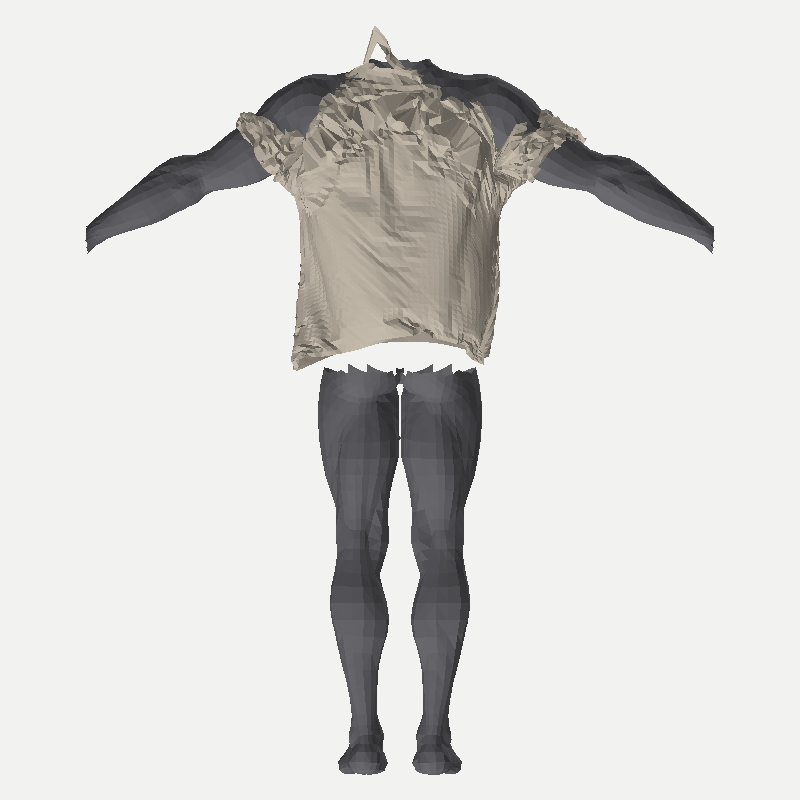
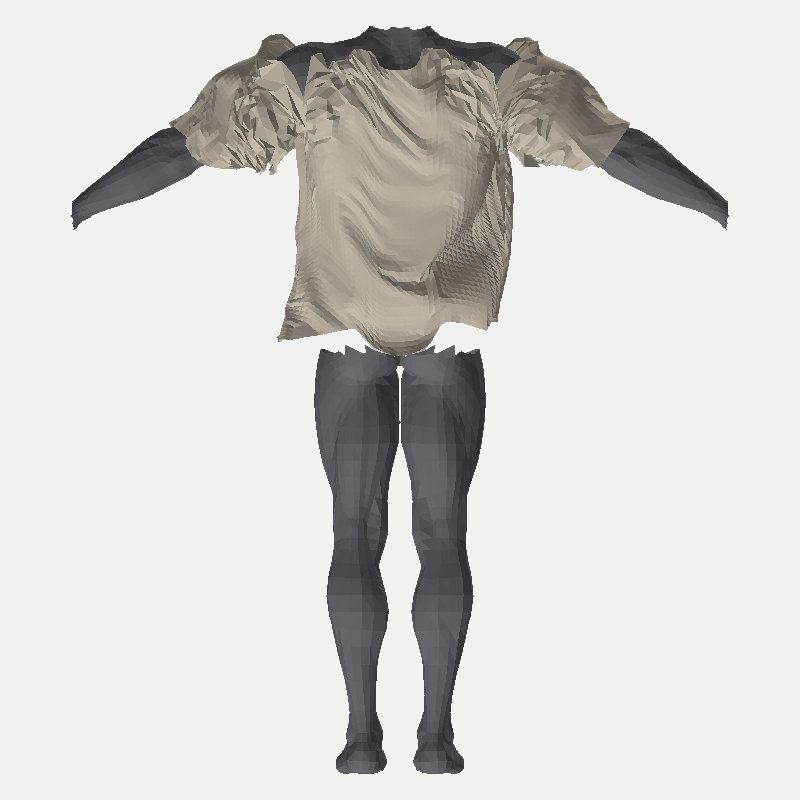
cloth sim: shell mode (default) per the independent review — seams closed at placement, one gravity settle
- torso_bender: front/back cylinders whose half turn is the panel width (side seams meet by construction)
- sleeve_bender: full-turn tube below the underarm (underarm seam closes by construction)
- rollover: shoulder columns roll a quarter turn over the shoulder, fading to none at the neck
- smooth funnel (continuous cap parameter), zip_presew (pairs to midpoints, smooth falloff in pattern space), weld
- smooth_push: out along the nearest skin triangle's normal (inside points went deeper before), smoothed field
- settle: gravity -Y, self-collision, collision quality 4, thickness 9 mm, max velocity 5, yoke pinned (0.25)
- neckband left out for now; SIM_MODE=sew keeps the old sewing-springs path

Result: 0.16-0.56 % of vertices inside the body (was 3-5 %), the shirt hangs with vertical folds; shoulders still lumpy.

Claude-Session: https://claude.ai/code/session_01T1FoqNFrnpWafKQH3B1Vx3

diff --git a/tools/assets/cloth/sim.py b/tools/assets/cloth/sim.py
@@ -47,20 +47,23 @@ from place import sub, dot, cross, nrm, build_grid, bender, band_bender, Body, \
     edge_pts, sample_polyline, COLORS
 
 # ── tunables (metres, seconds; the reviewer's Marvelous/CLO recipe) ────────────────────────────
-STEP_SIM = float(os.environ.get('SIM_STEP', '0.9'))     # cm, warp grid of the high-poly cloth
+STEP_SIM = float(os.environ.get('SIM_STEP', '1.2'))     # cm, warp grid of the high-poly cloth
 MIN_CLEAR, PUSH_TO = 0.020, 0.032                       # push-out band, same as place.py
 FPS = 24
 FRAMES_SEW = int(os.environ.get('SIM_SEW', '55'))       # phase 1: seams close by sewing springs
-FRAMES_SETTLE = int(os.environ.get('SIM_SETTLE', '60')) # phase 2: gravity + self-collision settle
-QUALITY = int(os.environ.get('SIM_QUALITY', '5'))       # CPU-bound default; SIM_QUALITY=8 on [gpu]
+FRAMES_SETTLE = int(os.environ.get('SIM_SETTLE', '50')) # phase 2: gravity + self-collision settle
+QUALITY = int(os.environ.get('SIM_QUALITY', '6'))       # CPU-bound default; SIM_QUALITY=8 on [gpu]
 FABRIC = dict(area_mass=0.15, tension=15.0, compression=15.0, shear=5.0, bending=0.5,
-              self_dist=0.003, coll_thick=0.005, friction=5.0,
+              self_dist=0.003, coll_thick=0.009, friction=5.0,
               sew_force=float(os.environ.get('SIM_SEW_FORCE', '25')))   # reviewer: 10–30
 SHRINK_SEW = float(os.environ.get('SIM_SHRINK', '0.02'))  # reviewer: 0.05–0.1
 SLEEVE_SLIDE = float(os.environ.get('SIM_SLIDE', '0.85'))   # share of the cap→armhole distance closed by placement
 FUNNEL_CM = 14.0                                          # the funnel fades out this far down the sleeve (pattern cm)
+PIN_DROP = float(os.environ.get('SIM_PIN_DROP', '0.05'))   # m below the nape: the pinned yoke
+PIN_STIFF = float(os.environ.get('SIM_PIN_STIFF', '0.25'))
+SHELL = os.environ.get('SIM_MODE', 'shell') == 'shell'   # sewn at placement (default) / 'sew' = springs
 WELD_GAP = 0.003                                          # weld seam pairs closer than 3 mm
-REST_VER = 'roll3'   # bump when the placement changes
+REST_VER = 'shell4'   # bump when the placement changes
 COTTON = (0.78, 0.74, 0.68)
 
 
@@ -85,14 +88,80 @@ def pushclear(V3, skin, iters=12):
             break
 
 
-def rollover(f, poly, sgn, z_mid):
+def nearest_ti(skin, p):
+    """Body.nearest + the triangle index (for its normal)"""
+    gx = int(p[0] / skin.cell); gy = int(p[1] / skin.cell); gz = int(p[2] / skin.cell)
+    best, bcp, bti = 1e18, None, -1
+    for r in range(1, 4):
+        for dx in range(-r, r + 1):
+            for dy in range(-r, r + 1):
+                for dz in range(-r, r + 1):
+                    if max(abs(dx), abs(dy), abs(dz)) != r: continue
+                    for ti in skin.grid.get((gx + dx, gy + dy, gz + dz), ()):
+                        d2, cp = skin.d2tri(p, ti)
+                        if d2 < best: best, bcp, bti = d2, cp, ti
+        if best < (r * skin.cell) ** 2: break
+    return best, bcp, bti
+
+
+def smooth_push(V, F, skin, rounds=5, smooth=8, clear=0.012, push_to=0.018):
+    """clear the cloth off the skin WITHOUT shredding it: (1) the push direction is the nearest skin triangle's
+    outward normal, so a vertex that is already INSIDE goes out (pushing along p - closest drove it deeper);
+    (2) the push is a displacement FIELD smoothed over the cloth mesh before it is applied, so the surface bulges
+    smoothly over a shoulder instead of single vertices jumping out as spikes."""
+    P, T = skin.P, skin.tris
+    TN = []
+    for a, b, c in T:
+        n = cross(sub(P[b], P[a]), sub(P[c], P[a])); l = math.sqrt(dot(n, n)) or 1e-12
+        TN.append((n[0] / l, n[1] / l, n[2] / l))
+    # orientation: most normals must point away from the body's own vertical axis
+    cx = sum(p[0] for p in P) / len(P); cz = sum(p[2] for p in P) / len(P)
+    vote = sum(dot(TN[i], (P[t[0]][0] - cx, 0, P[t[0]][2] - cz)) for i, t in enumerate(T[::7]) for i in [i * 7])
+    flip = -1.0 if vote < 0 else 1.0
+    nb = [set() for _ in V]
+    for a, b, c in F:
+        nb[a].update((b, c)); nb[b].update((a, c)); nb[c].update((a, b))
+    V = [list(p) for p in V]
+    for _ in range(rounds):
+        need = {}
+        for i, p in enumerate(V):
+            d2, cp, ti = nearest_ti(skin, p)
+            if cp is None or d2 > (clear * 1.6) ** 2: continue
+            n = tuple(flip * c for c in TN[ti]); sd = dot(sub(p, cp), n)
+            if sd < clear:
+                need[i] = tuple(n[k] * (push_to - sd) for k in range(3))
+        if not need: break
+        D = {i: list(d) for i, d in need.items()}
+        for _ in range(smooth):                               # spread the field into the neighbourhood
+            N = {}
+            for i in set(D) | {j for i in D for j in nb[i]}:
+                acc = [0.0, 0.0, 0.0]; cnt = 0
+                for j in nb[i]:
+                    if j in D: acc = [acc[k] + D[j][k] for k in range(3)]; cnt += 1
+                if not cnt: continue
+                avg = [acc[k] / (len(nb[i]) or 1) for k in range(3)]
+                own = D.get(i, [0.0, 0.0, 0.0])
+                if i in need:                                 # a colliding vertex keeps at least its own push
+                    own = list(need[i])
+                    if dot(avg, avg) > dot(own, own): own = avg
+                    N[i] = own
+                else:
+                    N[i] = [(own[k] + avg[k]) * 0.5 for k in range(3)]
+            D = N
+        for i, d in D.items():
+            V[i] = [V[i][k] + d[k] for k in range(3)]
+        print(f'    отжим от кожи: {len(need)} вершин, поле на {len(D)}')
+    return [tuple(p) for p in V]
+
+
+def rollover(f, poly, sgn, z_mid, neck_w):
     """the torso cylinder leaves the front / back shoulder edges hanging in front of / behind the shoulders, and the
-    sewing springs then pull them straight through the shoulder into the collider (the seams never close and the shirt
-    slides down). Roll the top of each panel over the shoulder instead: along every pattern column the cloth below the
-    top edge follows a quarter circle from the panel's own plane up to the shoulder mid-plane z_mid, arc length kept,
-    so the front and back shoulder edges meet on top of the shoulder before any physics runs."""
+    seams then cut straight through the shoulder. Roll the top of each panel over the shoulder: along every pattern
+    column the cloth below the top edge follows an arc from the panel's own plane toward the shoulder mid-plane z_mid,
+    arc length kept. Shoulder columns (|u| >= neck_w) roll a full quarter turn so front and back shoulder edges meet on
+    top of the shoulder; toward the centre the roll fades to none, so the neckline stays in front of / behind the neck."""
     n = len(poly)
-    def top(u):                                       # the pattern y (down from the nape) of the top edge at column u
+    def top(u):
         ys = []
         for i in range(n):
             (x1, y1), (x2, y2) = poly[i], poly[(i + 1) % n]
@@ -102,21 +171,95 @@ def rollover(f, poly, sgn, z_mid):
     cache = {}
     def g(u, v):
         x, y, z = f(u, v)
-        t = cache.get(u)
-        if t is None:
-            t = cache[u] = top(u)
-        r = abs(z - z_mid)
-        if r < 0.01:
+        if u not in cache:
+            t = top(u); r = abs(f(u, t)[2] - z_mid)
+            k = min(1.0, abs(u) / neck_w); rho = k * k * (3 - 2 * k)
+            cache[u] = (t, r, rho, f(u, t)[1])
+        t, r, rho, y_edge = cache[u]
+        if r < 0.01 or rho < 1e-3:
             return (x, y, z)
-        y_edge = f(u, t)[1]
-        d = (v - t) / 100                             # metres below the top edge along the panel
-        L = math.pi / 2 * r
-        yc = y_edge - r
+        L = rho * math.pi / 2 * r
+        yc = y_edge - r * math.sin(rho * math.pi / 2)
+        d = (v - t) / 100
         if d < L:
-            ph = d / r
-            return (x, yc + r * math.cos(ph), z_mid + sgn * r * math.sin(ph))
+            ph = (L - d) / r
+            return (x, yc + r * math.sin(ph), z_mid + sgn * r * math.cos(ph))
         return (x, yc - (d - L), z)
     return g
+
+
+def torso_bender(name, poly, A):
+    """front / back around a cylinder whose half turn is EXACTLY the panel width (the step-1 cylinder used the chest
+    girth + a gap, so the side seams started ~8 cm apart): the side edges of front and back land on the same line"""
+    xs = [p[0] for p in poly]; cx = (min(xs) + max(xs)) / 2; R = (max(xs) - min(xs)) / 100 / math.pi
+    zc, yn = A['chest']['zc'], A['nape_y']; sg = 1 if name == 'front' else -1
+    def f(u, v):
+        th = (u - cx) / 100 / R
+        return (R * math.sin(th), yn - v / 100, zc + sg * R * math.cos(th))
+    return f
+
+
+def sleeve_bender(name, part, A):
+    """the sleeve as a closed tube around the arm: below the underarm every row wraps a full turn (its width between
+    the two underarm-seam edges = the circumference), so the underarm seam closes by construction; the cap rows keep
+    the underarm row's radius and are pulled to the armhole by the funnel"""
+    s = 1 if name == 'sleeveP' else -1
+    ar = A['arms']['L' if s > 0 else 'R']
+    b0 = (ar['bicep_cx'], ar['bicep_y'], ar['bicep_cz']); e = (ar['elbow_cx'], ar['elbow_y'], ar['elbow_cz'])
+    d = nrm(sub(e, b0))
+    tip = A['sleeve_tip'][s]; Y = (0, 1, 0)
+    e_top = nrm(tuple(Y[k] - dot(Y, d) * d[k] for k in range(3))); e_side = nrm(cross(d, e_top))
+    sP, sM = edge_pts(part, 'seamP'), edge_pts(part, 'seamM')
+    v_ua = max(min(p[1] for p in sP), min(p[1] for p in sM))
+    def xat(line, v):
+        for (x1, y1), (x2, y2) in zip(line, line[1:]):
+            if (y1 <= v <= y2) or (y2 <= v <= y1):
+                return x1 if y1 == y2 else x1 + (x2 - x1) * (v - y1) / (y2 - y1)
+        return line[0][0] if abs(line[0][1] - v) < abs(line[-1][1] - v) else line[-1][0]
+    hcap = A['cap_h']
+    def f(u, v):
+        vv = max(v, v_ua)
+        a_, b_ = xat(sP, vv), xat(sM, vv); lo, hi = min(a_, b_), max(a_, b_); w = hi - lo
+        R = w / 100 / (2 * math.pi) + 0.004
+        th = math.pi * (u - (lo + hi) / 2) / (w / 2) if v >= v_ua else (u - (lo + hi) / 2) / 100 / R
+        s_al = (v + hcap) / 100
+        radial = tuple(e_top[k] * math.cos(th) + e_side[k] * math.sin(th) for k in range(3))
+        return tuple(tip[k] + d[k] * s_al + R * radial[k] for k in range(3))
+    return f
+
+
+def zip_presew(V, seamG, part_of, V2g, fall_cm=7.0):
+    """close every seam geometrically before any physics: each pair moves to its midpoint, and the move spreads into
+    its own panel with a smooth falloff over fall_cm in PATTERN space (no Laplacian: it left slivers). Then the pairs
+    coincide and are welded — the cloth starts as one closed shell whose rest shape is the panels' own shape."""
+    D = {}
+    for _, pr in seamG:
+        for a, b in pr:
+            m = tuple((V[a][k] + V[b][k]) / 2 for k in range(3))
+            for i in (a, b):
+                d = sub(m, V[i])
+                if i in D: D[i] = tuple((D[i][k] + d[k]) / 2 for k in range(3))
+                else: D[i] = d
+    by_part = defaultdict(list)
+    for i in D: by_part[part_of[i]].append(i)
+    out = [list(p) for p in V]
+    for i in range(len(V)):
+        src = by_part.get(part_of[i])
+        if not src: continue
+        if i in D:
+            out[i] = [V[i][k] + D[i][k] for k in range(3)]; continue
+        wsum, acc, dmin = 0.0, [0.0, 0.0, 0.0], 1e9
+        u, v = V2g[i]
+        for j in src:
+            dd = math.hypot(V2g[j][0] - u, V2g[j][1] - v)
+            if dd > fall_cm: continue
+            dmin = min(dmin, dd); w = 1.0 / (dd * dd + 0.25)
+            wsum += w
+            for k in range(3): acc[k] += w * D[j][k]
+        if not wsum: continue
+        t = 1 - dmin / fall_cm; t = t * t * (3 - 2 * t)
+        out[i] = [V[i][k] + acc[k] / wsum * t for k in range(3)]
+    return out
 
 
 def build_parts(garment, pat, skin, bodyP, bodyT):
@@ -133,11 +276,14 @@ def build_parts(garment, pat, skin, bodyP, bodyT):
         zs = [p[2] for p in bodyP if A['nape_y'] - 0.09 < p[1] < A['nape_y'] - 0.01 and 0.07 < abs(p[0]) < 0.17]
         z_mid = sum(zs) / len(zs)
         for name in pat['parts']:
-            f = bender(name, A)
-            if f is None:                                   # the collar strip, along the neckline
-                f = band_bender(A, pat, bender('front', A), bender('back', A))
-            elif name in ('front', 'back'):
-                f = rollover(f, [tuple(p) for p in pat['parts'][name]['pts']], 1 if name == 'front' else -1, z_mid)
+            poly = [tuple(p) for p in pat['parts'][name]['pts']]
+            if name in ('front', 'back'):
+                nk = edge_pts(pat['parts'][name], 'neck'); neck_w = max(abs(q[0]) for q in nk)
+                f = rollover(torso_bender(name, poly, A), poly, 1 if name == 'front' else -1, z_mid, neck_w)
+            elif name in ('sleeveP', 'sleeveM'):
+                f = sleeve_bender(name, pat['parts'][name], A)
+            else:
+                f = bender(name, A) or band_bender(A, pat, bender('front', A), bender('back', A))
             benders[name] = f
         # funnel each sleeve toward its armhole: the cap ring sat ~15 cm from the armhole loop, and the sewing springs then
         # dragged the shoulders apart and crumpled the caps. Every sleeve vertex moves by the cap→armhole offset of its
@@ -168,10 +314,21 @@ def build_parts(garment, pat, skin, bodyP, bodyT):
             D = [sub(benders[hn](*hq), benders[sl](*cq)) for (_, cq), (hn, hq) in zip(cap, hole)]
             f0 = benders[sl]
             def funnel(u, v, f0=f0, caps2=caps2, D=D):
-                k = min(range(len(caps2)), key=lambda m: (caps2[m][0] - u) ** 2 + (caps2[m][1] - v) ** 2)
-                dp = math.dist(caps2[k], (u, v)); w = max(0.0, 1 - dp / FUNNEL_CM) ** 2 * SLEEVE_SLIDE
+                # closest point on the cap polyline (continuous), the cap→armhole offset interpolated along it:
+                # the nearest-sample version moved the cloth in steps and creased the rest shape at the armhole
+                best = (1e18, 0, 0.0)
+                for m in range(len(caps2) - 1):
+                    (x1, y1), (x2, y2) = caps2[m], caps2[m + 1]
+                    dx, dy = x2 - x1, y2 - y1; L2 = dx * dx + dy * dy or 1e-9
+                    t = max(0.0, min(1.0, ((u - x1) * dx + (v - y1) * dy) / L2))
+                    d2 = (x1 + dx * t - u) ** 2 + (y1 + dy * t - v) ** 2
+                    if d2 < best[0]: best = (d2, m, t)
+                d2, m, t = best
+                w = max(0.0, 1 - math.sqrt(d2) / FUNNEL_CM) ** 2 * SLEEVE_SLIDE
+                w = w * w * (3 - 2 * w) if w < 1 else w
+                Dk = tuple(D[m][i] + (D[m + 1][i] - D[m][i]) * t for i in range(3))
                 p0 = f0(u, v)
-                return tuple(p0[i] + D[k][i] * w for i in range(3))
+                return tuple(p0[i] + Dk[i] * w for i in range(3))
             benders[sl] = funnel
             print(f'    {sl}: окат подтянут к пройме (средний зазор был {sum(math.sqrt(dot(d, d)) for d in D) / len(D) * 100:.1f} см)')
     else:                                                    # pants: step-1 bender needs its measures
@@ -187,7 +344,7 @@ def build_parts(garment, pat, skin, bodyP, bodyT):
         V, F, idxmap, cols, nrows = build_grid(poly, STEP_SIM)
         f = benders[name]
         V3 = [f(u, v) for u, v in V]
-        pushclear(V3, skin, 30 if garment == 'pants' else 12)
+        if not SHELL: pushclear(V3, skin, 30 if garment == 'pants' else 12)   # the shell is cleared after zipping (smooth_push)
         parts[name] = dict(verts3=V3, V2=V, faces=F)
         print(f'    {name:9}: {len(V3)} вершин, {len(F)} граней')
     return parts
@@ -330,7 +487,8 @@ def cfg(st, cs, mass, sewing, shrink, self_coll, quality):
     S(st, ['use_sewing_springs'], bool(sewing))
     if sewing:
         S(st, ['sewing_force_max', 'sewing_spring_max', 'max_sewing_force'], FABRIC['sew_force'])
-    S(st, ['max_velocity'], 50.0)                       # clamp a diverging frame
+    S(st, ['max_velocity'], 5.0)                        # m/s — 50 clamped nothing
+    S(cs, ['collision_quality'], 4)
     S(cs, ['use_collision'], True)
     S(cs, ['distance_min'], FABRIC['self_dist'])
     S(cs, ['use_self_collision'], bool(self_coll))
@@ -344,6 +502,12 @@ def make_body_collider(sc, bodyP, bodyT):
     me = bpy.data.meshes.new('body')
     me.from_pydata([list(p) for p in bodyP], [], [list(t) for t in bodyT])
     me.validate(); me.update()
+    import bmesh                                          # close the cut neck / pelvis rings and the UV-seam splits
+    bm = bmesh.new(); bm.from_mesh(me)
+    bmesh.ops.remove_doubles(bm, verts=bm.verts, dist=1e-4)
+    if os.environ.get('SIM_FILL', '0') == '1':
+        bmesh.ops.holes_fill(bm, edges=bm.edges, sides=0)
+    bm.to_mesh(me); bm.free(); me.update()
     ob = bpy.data.objects.new('body', me)
     sc.collection.objects.link(ob)
     cm = ob.modifiers.new('Collision', 'COLLISION')
@@ -356,7 +520,7 @@ def make_body_collider(sc, bodyP, bodyT):
 
 
 def run_phase(tag, V, F, E_sew, bodyP, bodyT, mass, frames, gravity, sewing, shrink,
-              self_coll, quality, blend=None):
+              self_coll, quality, blend=None, pin=None):
     """one cloth bake in a fresh scene. blend=(path, WV, WF, loop_uv) saves the final .blend."""
     bpy.ops.wm.read_factory_settings(use_empty=True)
     sc = bpy.context.scene
@@ -374,6 +538,10 @@ def run_phase(tag, V, F, E_sew, bodyP, bodyT, mass, frames, gravity, sewing, shr
     md = cob.modifiers.new('Cloth', 'CLOTH')
     st, cs = md.settings, md.collision_settings
     log, miss = cfg(st, cs, mass, sewing, shrink, self_coll, quality)
+    if pin:                                   # {vertex: weight} — the yoke rides on the shoulders (a hanger, as in CLO)
+        vg = cob.vertex_groups.new(name='pin')
+        for i, w in pin.items(): vg.add([i], w, 'REPLACE')
+        st.vertex_group_mass = 'pin'; st.pin_stiffness = PIN_STIFF
     print(f'  [{tag}] гравитация {gravity}, кадров {frames}, quality {quality}, '
           f'рёбер-швов {len(E_sew)} (loose={nloose}), вершин {len(V)}')
     print(f'  [{tag}] ткань: ' + ', '.join(log) + (f'  (нет RNA: {sorted(set(miss))})' if miss else ''))
@@ -640,6 +808,9 @@ def main():
         return 0 if sew_ok else 1
     bodyP, bodyT = place.load_obj(objp)
     pat = json.load(open(patp))
+    if SHELL and garment == 'tee':        # the neckband strip is a separate ring that never sat on the neckline — later
+        pat['parts'] = {k: v for k, v in pat['parts'].items() if k != 'band'}
+        pat['seams'] = [sm for sm in pat['seams'] if all(sp[0] != 'band' for sp in sm['a'] + sm['b'])]
     cached = load_rest(garment)
     if cached:
         V0, F0, UV0, seamG, E = cached
@@ -648,7 +819,15 @@ def main():
         parts = build_parts(garment, pat, skin, bodyP, bodyT)
         seams = seam_pairs(pat, parts)
         V0, F0, UV0, seamG, E, off = join(parts, seams, sheet_uv(parts))
+        if SHELL:
+            part_of, V2g = [], []
+            for name, pt in parts.items():
+                part_of += [name] * len(pt['verts3']); V2g += pt['V2']
+            V0 = zip_presew(V0, seamG, part_of, V2g)
+            V0 = smooth_push(V0, F0, skin)
         save_rest(garment, V0, F0, UV0, seamG, E)
+    if os.environ.get('SIM_REST_ONLY'):
+        print('— только покой (SIM_REST_ONLY)'); return 0
     print('— швы до пошива (рёбра-пружины, зазоры как из раскладки):')
     for nm, pr in seamG:
         g = [math.dist(V0[a], V0[b]) for a, b in pr]
@@ -664,23 +843,36 @@ def main():
     bad = 0 if 20000 <= len(F0) <= 120000 else 1
     print(f'    {"✓" if not bad else "✗"} число треугольников')
 
-    # ── PHASE 1: sew (gravity 0, no self-collision, slight shrink) ──
-    Vs_A, t1 = run_phase('пошив', V0, F0, E, bodyP, bodyT, mass, FRAMES_SEW,
-                         gravity=(0, 0, 0), sewing=True, shrink=SHRINK_SEW,
-                         self_coll=False, quality=QUALITY)
-    seam_bad, mean_gap = check_seams(Vs_A, seamG)
-
-    # ── WELD after sewing ──
-    WV, faces_w, remap = weld(Vs_A, V0, F0, UV0, seamG)
-    WF = [wf for wf, f0 in faces_w]
-    luv = loop_uv(faces_w, UV0)
-
-    # ── PHASE 2: settle (gravity on, self-collision on) ──
     blendp = os.path.join(OUT, f'{garment}_high.blend')
-    Vs_B, t2 = run_phase('усадка', WV, WF, [], bodyP, bodyT, mass, FRAMES_SETTLE,
-                         gravity=(0, -9.81, 0), sewing=False, shrink=0.0,
-                         self_coll=True, quality=QUALITY,
-                         blend=(blendp, WV, WF, luv))
+    if SHELL:
+        # ── the shell is already sewn: weld the (now coincident) pairs, then ONE settle with gravity ──
+        WV, faces_w, remap = weld(V0, V0, F0, UV0, seamG)
+        WF = [wf for wf, f0 in faces_w]
+        luv = loop_uv(faces_w, UV0)
+        t1 = 0.0
+        pin = None
+        if garment == 'tee':                  # pin the yoke: everything above the shoulder line minus PIN_DROP, ramped
+            y0 = pat['anchors']['nape_y'] - PIN_DROP
+            pin = {i: min(1.0, (p[1] - y0) / 0.03) for i, p in enumerate(WV) if p[1] > y0}
+            print(f'    пин кокетки: {len(pin)} вершин выше y={y0:.3f}')
+        Vs_B, t2 = run_phase('усадка', WV, WF, [], bodyP, bodyT, mass, FRAMES_SETTLE,
+                             gravity=(0, -9.81, 0), sewing=False, shrink=0.0,
+                             self_coll=True, quality=QUALITY, blend=(blendp, WV, WF, luv), pin=pin)
+        seam_bad = 0
+    else:
+        # ── PHASE 1: sew (gravity 0, no self-collision, slight shrink) ──
+        Vs_A, t1 = run_phase('пошив', V0, F0, E, bodyP, bodyT, mass, FRAMES_SEW,
+                             gravity=(0, 0, 0), sewing=True, shrink=SHRINK_SEW,
+                             self_coll=False, quality=QUALITY)
+        seam_bad, mean_gap = check_seams(Vs_A, seamG)
+        WV, faces_w, remap = weld(Vs_A, V0, F0, UV0, seamG)
+        WF = [wf for wf, f0 in faces_w]
+        luv = loop_uv(faces_w, UV0)
+        # ── PHASE 2: settle (gravity on, self-collision on) ──
+        Vs_B, t2 = run_phase('усадка', WV, WF, [], bodyP, bodyT, mass, FRAMES_SETTLE,
+                             gravity=(0, -9.81, 0), sewing=False, shrink=0.0,
+                             self_coll=True, quality=QUALITY,
+                             blend=(blendp, WV, WF, luv))
 
     # ── checks on the FINAL (settle) result ──
     Vs_final_orig = [Vs_B[remap[i]] for i in range(len(V0))]   # un-weld for the edge check
